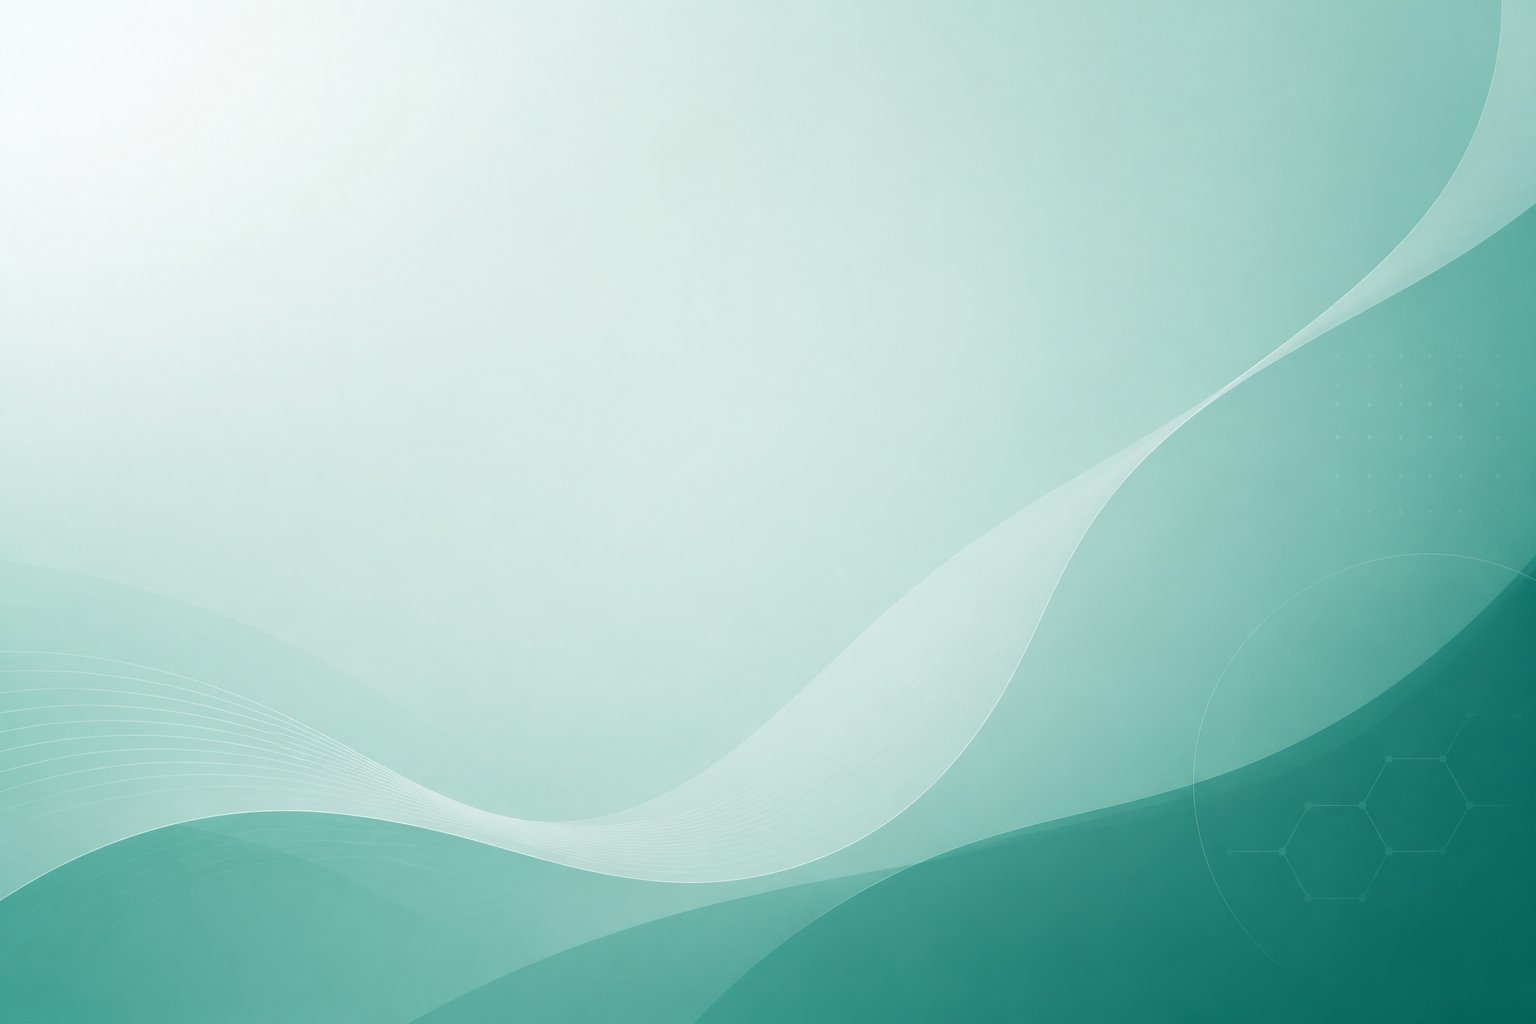
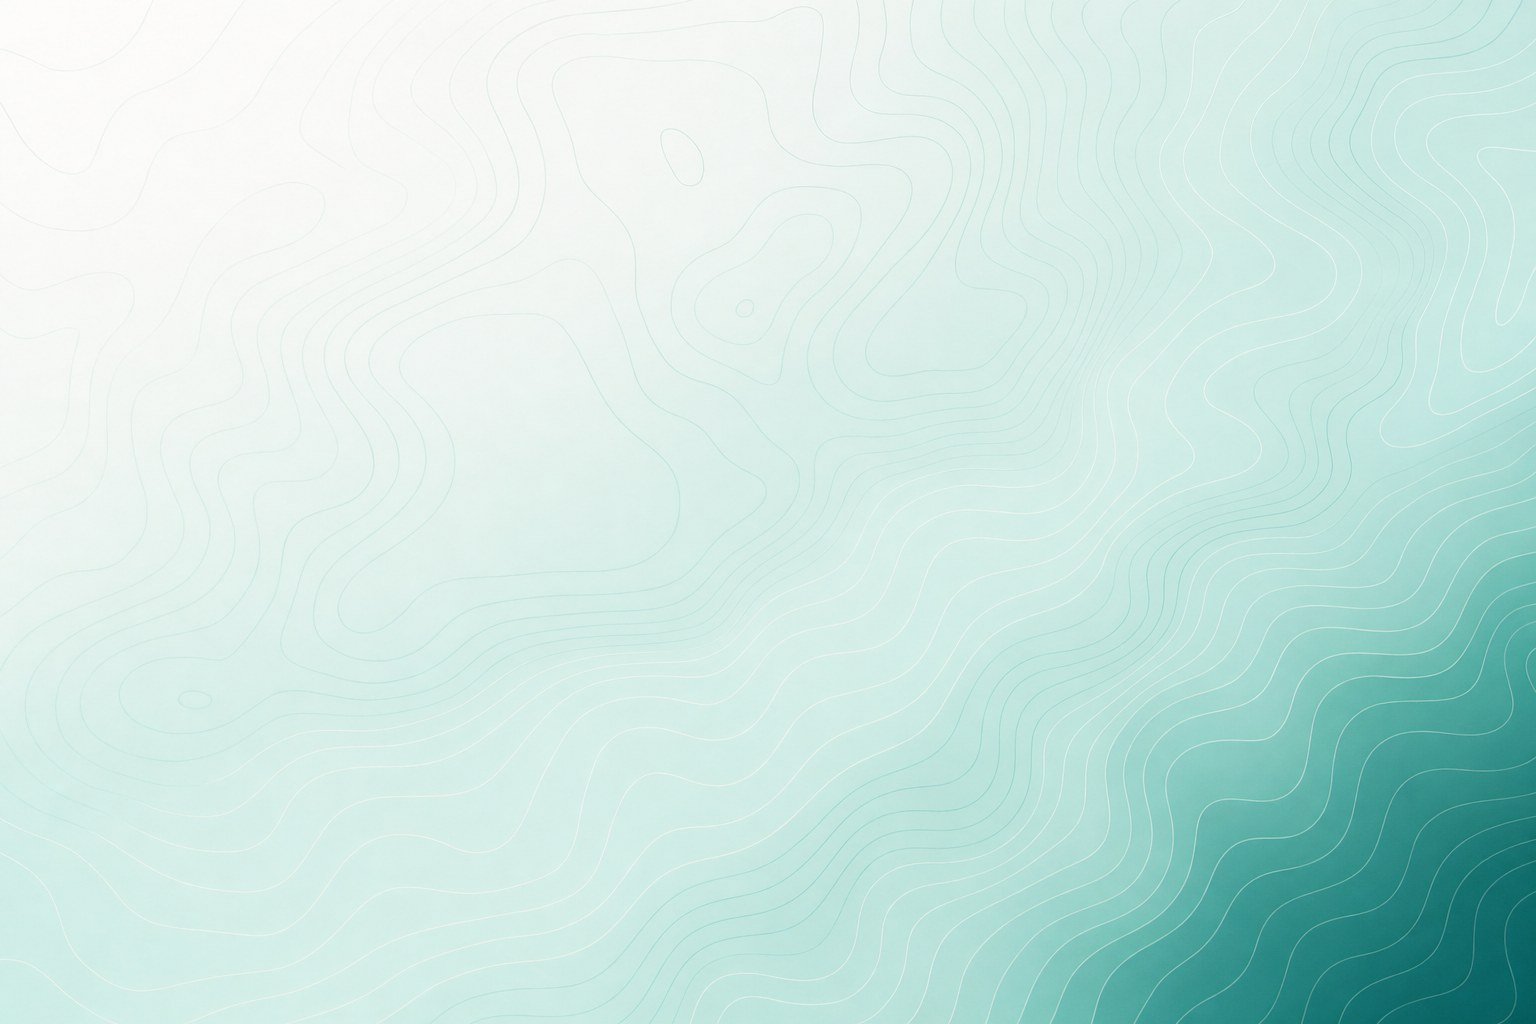
hero 底圖換 high 品質等高線版本；八張卡片加入 SVG 線條圖示

diff --git a/index.html b/index.html
@@ -60,6 +60,13 @@
   }
   a.card:hover{border-color:var(--accent);transform:translateY(-2px);}
   .card-main{flex:1;min-width:0;}
+  .icon{
+    flex:0 0 auto;width:42px;height:42px;border-radius:10px;
+    background:var(--accent-soft);color:var(--accent);
+    display:flex;align-items:center;justify-content:center;
+  }
+  .icon svg{width:23px;height:23px;stroke:currentColor;fill:none;
+    stroke-width:1.8;stroke-linecap:round;stroke-linejoin:round;}
   .card h3{font-size:1.02rem;font-weight:700;}
   .card p{color:var(--sub);font-size:.87rem;margin-top:.3rem;}
   .badge{
@@ -94,6 +101,7 @@
   <h2>門診臨床工具</h2>
   <div class="grid">
     <a class="card" href="https://philia81301-commits.github.io/weight-maintain-clinic/">
+      <div class="icon"><svg viewBox="0 0 24 24" aria-hidden="true"><circle cx="12" cy="5" r="3"/><path d="M6.5 8a2 2 0 0 0-1.905 1.46L2.1 18.5A2 2 0 0 0 4 21h16a2 2 0 0 0 1.925-2.54L19.4 9.5A2 2 0 0 0 17.48 8Z"/></svg></div>
       <div class="card-main">
         <h3>減重維持輸入工具</h3>
         <p>減重門診的維持期紀錄工具，追蹤體重與回診資料。</p>
@@ -101,6 +109,7 @@
       <div class="qr-box"><img src="assets/qr/weight.svg" alt="減重維持輸入工具 QR code"></div>
     </a>
     <a class="card" href="https://philia81301-commits.github.io/osteoporosis-clinic/">
+      <div class="icon"><svg viewBox="0 0 24 24" aria-hidden="true"><path d="M17 10c.7-.7 1.69 0 2.5 0a2.5 2.5 0 1 0 0-5 .5.5 0 0 1-.5-.5 2.5 2.5 0 1 0-5 0c0 .81.7 1.8 0 2.5l-7 7c-.7.7-1.69 0-2.5 0a2.5 2.5 0 0 0 0 5c.28 0 .5.22.5.5a2.5 2.5 0 1 0 5 0c0-.81-.7-1.8 0-2.5Z"/></svg></div>
       <div class="card-main">
         <h3>骨質疏鬆門診工具</h3>
         <p>骨鬆風險評估與門診處置的輔助工具。</p>
@@ -108,6 +117,7 @@
       <div class="qr-box"><img src="assets/qr/osteo.svg" alt="骨質疏鬆門診工具 QR code"></div>
     </a>
     <a class="card" href="https://philia81301-commits.github.io/HP-clinic/">
+      <div class="icon"><svg viewBox="0 0 24 24" aria-hidden="true"><rect x="5" y="8.5" width="13" height="6.6" rx="3.3" transform="rotate(-22 11.5 11.8)"/><path d="M18.6 6.2c1.1-.3 1.7-1.1 1.7-2.2"/><path d="M20 9.4c1.1.2 1.8.9 2.2 1.9"/><path d="M3.6 16.8c-.9.5-1.3 1.3-1.3 2.4"/></svg></div>
       <div class="card-main">
         <h3>幽門螺旋桿菌陽性處置工具集</h3>
         <p>幽門桿菌檢驗陽性後的處置流程與衛教工具。</p>
@@ -115,6 +125,7 @@
       <div class="qr-box"><img src="assets/qr/hp.svg" alt="幽門桿菌處置工具 QR code"></div>
     </a>
     <a class="card" href="https://philia81301-commits.github.io/pneumonia-clinic/">
+      <div class="icon"><svg viewBox="0 0 24 24" aria-hidden="true"><path d="m18 2 4 4"/><path d="m17 7 3-3"/><path d="M19 9 8.7 19.3c-1 1-2.5 1-3.4 0l-.6-.6c-1-1-1-2.5 0-3.4L15 5"/><path d="m9 11 4 4"/><path d="m5 19-3 3"/><path d="m14 4 6 6"/></svg></div>
       <div class="card-main">
         <h3>肺炎鏈球菌疫苗工具</h3>
         <p>台灣成人肺炎鏈球菌疫苗接種建議，含 2026-08-10 新制。</p>
@@ -122,6 +133,7 @@
       <div class="qr-box"><img src="assets/qr/pneumo.svg" alt="肺炎鏈球菌疫苗工具 QR code"></div>
     </a>
     <a class="card" href="https://philia81301-commits.github.io/pi-generator/">
+      <div class="icon"><svg viewBox="0 0 24 24" aria-hidden="true"><path d="M12.5 22H18a2 2 0 0 0 2-2V7l-5-5H6a2 2 0 0 0-2 2v9.5"/><path d="M14 2v4a2 2 0 0 0 2 2h4"/><path d="M13.378 15.626a1 1 0 1 0-3.004-3.004l-5.01 5.012a2 2 0 0 0-.506.854l-.837 2.87a.5.5 0 0 0 .62.62l2.87-.837a2 2 0 0 0 .854-.506z"/></svg></div>
       <div class="card-main">
         <h3>入院病歷 Present Illness 產生器</h3>
         <p>輸入結構化欄位，產生住院病歷現病史段落。</p>
@@ -135,6 +147,7 @@
   <h2>社區篩檢</h2>
   <div class="grid">
     <a class="card" href="https://philia81301-commits.github.io/sarcopenia-clinic/">
+      <div class="icon"><svg viewBox="0 0 24 24" aria-hidden="true"><path d="M14.4 14.4 9.6 9.6"/><path d="M18.657 21.485a2 2 0 1 1-2.829-2.828l-1.767 1.768a2 2 0 1 1-2.829-2.829l6.364-6.364a2 2 0 1 1 2.829 2.829l-1.768 1.767a2 2 0 1 1 2.828 2.829z"/><path d="m21.5 21.5-1.4-1.4"/><path d="M3.9 3.9 2.5 2.5"/><path d="M6.404 12.768a2 2 0 1 1-2.829-2.829l1.768-1.767a2 2 0 1 1 2.828-2.829l6.364 6.364a2 2 0 1 1-2.829 2.829l-1.767 1.768a2 2 0 1 1-2.829-2.828z"/></svg></div>
       <div class="card-main">
         <h3>肌少症篩檢紀錄工具</h3>
         <p>門診與社區場域的肌少症篩檢量表與紀錄。</p>
@@ -149,6 +162,7 @@
   <h2>教學與演講</h2>
   <div class="grid">
     <a class="card" href="ai-teaching/">
+      <div class="icon"><svg viewBox="0 0 24 24" aria-hidden="true"><path d="M12 8V4H8"/><rect width="16" height="12" x="4" y="8" rx="2"/><path d="M2 14h2"/><path d="M20 14h2"/><path d="M15 13v2"/><path d="M9 13v2"/></svg></div>
       <div class="card-main">
         <h3>AI Agent 醫療職場入門</h3>
         <p>寫給醫療職場所有人的 AI Agent 教材：指南、操作手冊與簡報下載。</p>
@@ -156,6 +170,7 @@
       <div class="qr-box"><img src="assets/qr/ai-teaching.svg" alt="AI 教學 QR code"></div>
     </a>
     <a class="card" href="https://philia81301-commits.github.io/obesity-society-ai-talk/slides/">
+      <div class="icon"><svg viewBox="0 0 24 24" aria-hidden="true"><path d="M2 3h20"/><path d="M21 3v11a2 2 0 0 1-2 2H5a2 2 0 0 1-2-2V3"/><path d="m7 21 5-5 5 5"/></svg></div>
       <div class="card-main">
         <h3>人工智慧在肥胖治療運用的新發展</h3>
         <p>肥胖學會演講簡報（線上瀏覽版）。</p>
